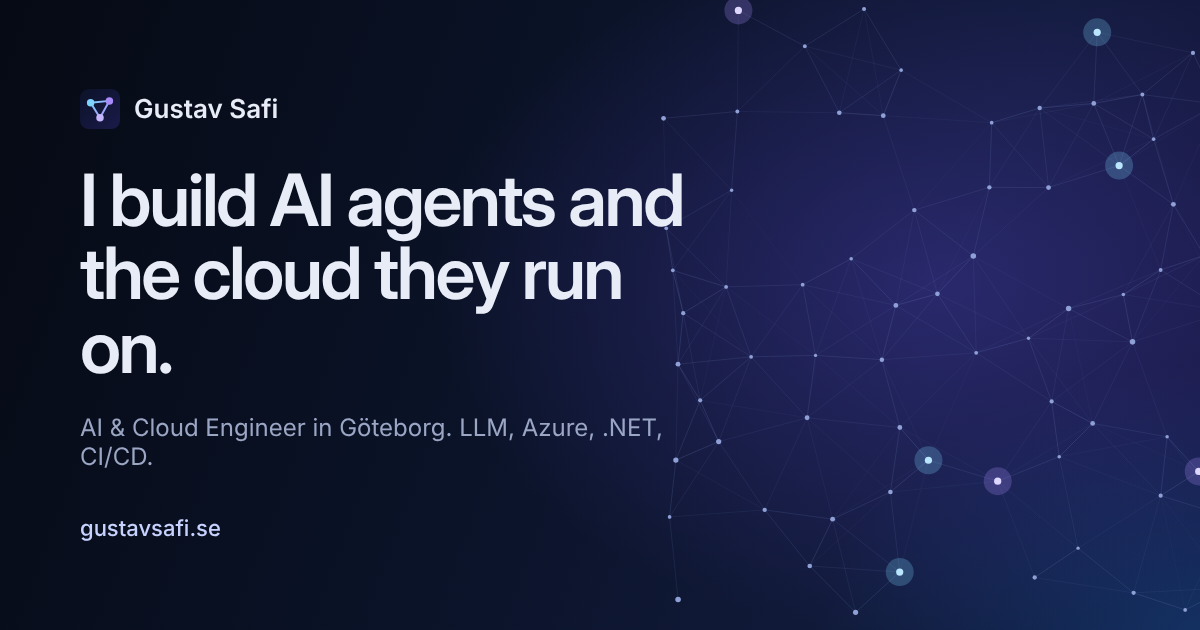
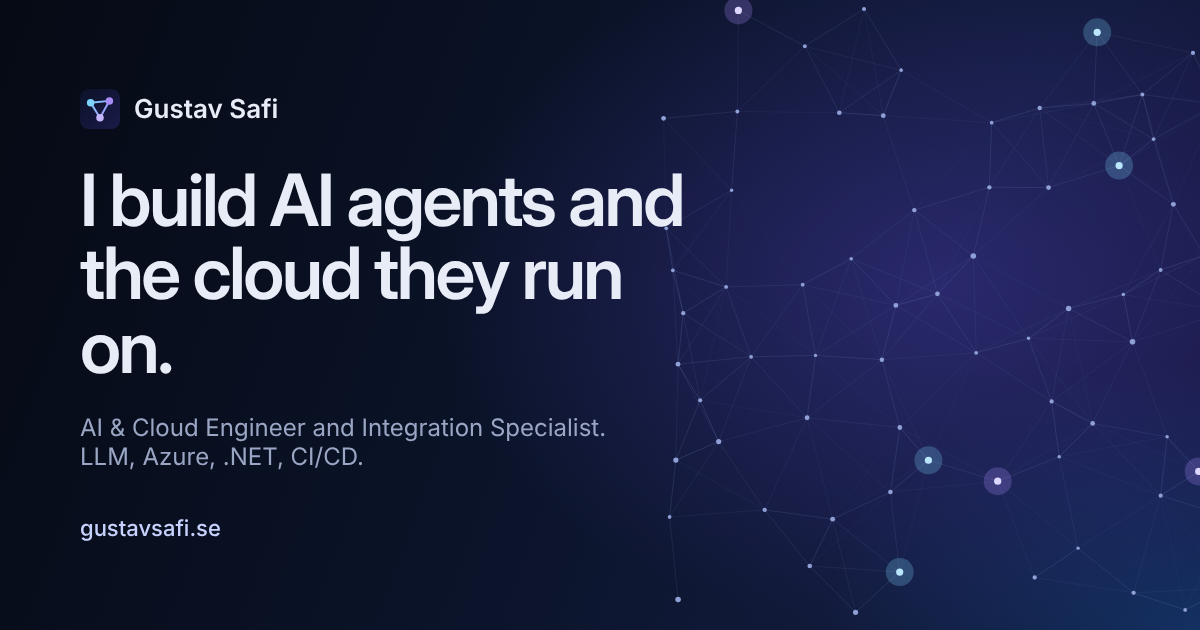
Remove location and job-seeking wording
Drops every mention of Göteborg and of being open to new roles from the
page, metadata, structured data and Open Graph image.

Claude-Session: https://claude.ai/code/session_01Ex82pDg34pUaBec99bPrQw

Changed region(s): [[0.0617, 0.6635, 0.555, 0.754]]

diff --git a/src/app/page.tsx b/src/app/page.tsx
@@ -105,13 +105,7 @@ function Hero() {
       <HeroNetwork />
       <div className="relative mx-auto max-w-6xl px-5 sm:px-8 pt-32 pb-16 sm:pt-36 lg:pt-40 lg:pb-24 grid grid-cols-1 lg:grid-cols-[1fr_1.02fr] gap-12 lg:gap-6 items-center">
         <div>
-          <p className="flex items-center gap-2.5 text-muted">
-            <span className="relative flex h-2 w-2">
-              <span className="absolute inline-flex h-full w-full rounded-full bg-emerald-400 opacity-60 motion-safe:animate-ping" />
-              <span className="relative inline-flex h-2 w-2 rounded-full bg-emerald-400" />
-            </span>
-            AI and cloud engineer in Göteborg, available for new roles
-          </p>
+          <p className="text-muted">AI &amp; Cloud Engineer and Integration Specialist</p>
           <h1 className="mt-6 text-[2.75rem] xs:text-5xl sm:text-6xl lg:text-[4.25rem] font-semibold tracking-[-0.04em] leading-[1.02] max-w-[13ch]">
             I build AI agents and the cloud they run on.
           </h1>
@@ -346,7 +340,7 @@ function Contact() {
           Have an AI feature that needs to reach production?
         </h2>
         <p className="mt-6 text-lg text-muted max-w-[34rem] leading-relaxed">
-          I&apos;m open to roles in Göteborg and remote. Email is the fastest way to reach me.
+          Email is the fastest way to reach me.
         </p>
         <a
           href={`mailto:${CONTACT.email}`}
@@ -376,7 +370,7 @@ function Contact() {
         </div>
         <div className="mt-24 flex flex-col sm:flex-row justify-between gap-2 border-t border-line/80 pt-6 text-sm text-faint">
           <span className="flex items-center gap-2">
-            <Mark className="h-4 w-4" />© 2026 Gustav Safi, Göteborg
+            <Mark className="h-4 w-4" />© 2026 Gustav Safi
           </span>
           <span>Designed and built by me with Next.js</span>
         </div>

diff --git a/src/app/layout.tsx b/src/app/layout.tsx
@@ -4,7 +4,7 @@ import "./globals.css";
 
 const title = "Gustav Safi | AI & Cloud Engineer";
 const description =
-  "Gustav Safi is an AI and cloud engineer in Göteborg. He builds AI agents and LLM features, the ASP.NET Core APIs around them and the Azure infrastructure they run on.";
+  "Gustav Safi is an AI and cloud engineer. He builds AI agents and LLM features, the ASP.NET Core APIs around them and the Azure infrastructure they run on.";
 
 export const metadata: Metadata = {
   metadataBase: new URL("https://gustavsafi.se"),
@@ -22,7 +22,6 @@ export const metadata: Metadata = {
     ".NET",
     "C#",
     "DevOps",
-    "Göteborg",
   ],
   authors: [{ name: "Gustav Safi", url: "https://gustavsafi.se" }],
   alternates: { canonical: "/" },
@@ -53,7 +52,6 @@ const personJsonLd = {
   jobTitle: "AI & Cloud Engineer",
   url: "https://gustavsafi.se",
   email: "mailto:GustavSafi@hotmail.com",
-  address: { "@type": "PostalAddress", addressLocality: "Göteborg", addressCountry: "SE" },
   alumniOf: { "@type": "EducationalOrganization", name: "IT-Högskolan" },
   sameAs: ["https://github.com/GustavSafi", "https://www.linkedin.com/in/gustav-safi-6b6257248/"],
 };

diff --git a/src/content.ts b/src/content.ts
@@ -142,7 +142,7 @@ export const STACK = [
 ];
 
 export const EDUCATION = [
-  { school: "IT-Högskolan, Göteborg", detail: ".NET Cloud Developer, Higher Vocational Education Diploma", year: "2024–2026" },
+  { school: "IT-Högskolan", detail: ".NET Cloud Developer, Higher Vocational Education Diploma", year: "2024–2026" },
   { school: "Harvard University via edX", detail: "CS50: Introduction to Computer Science, certificate", year: "2023" },
 ];
 
